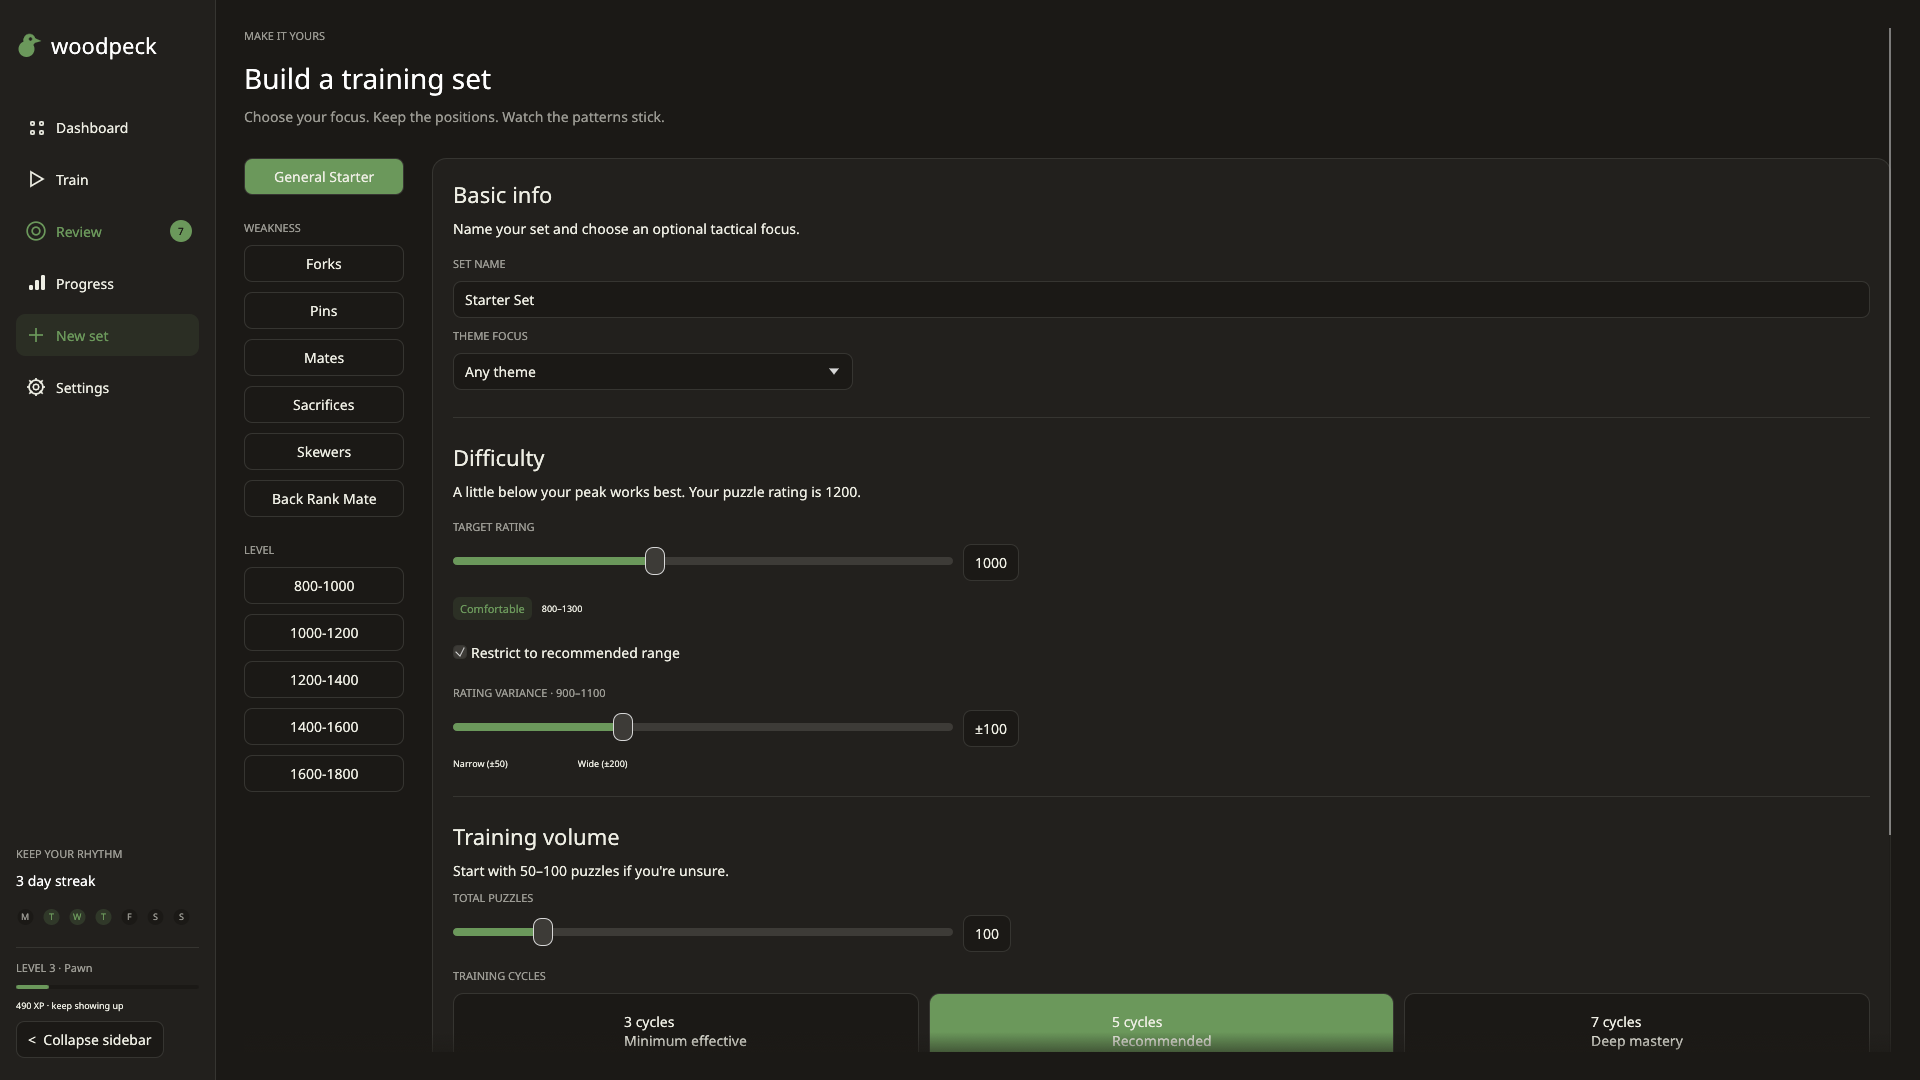
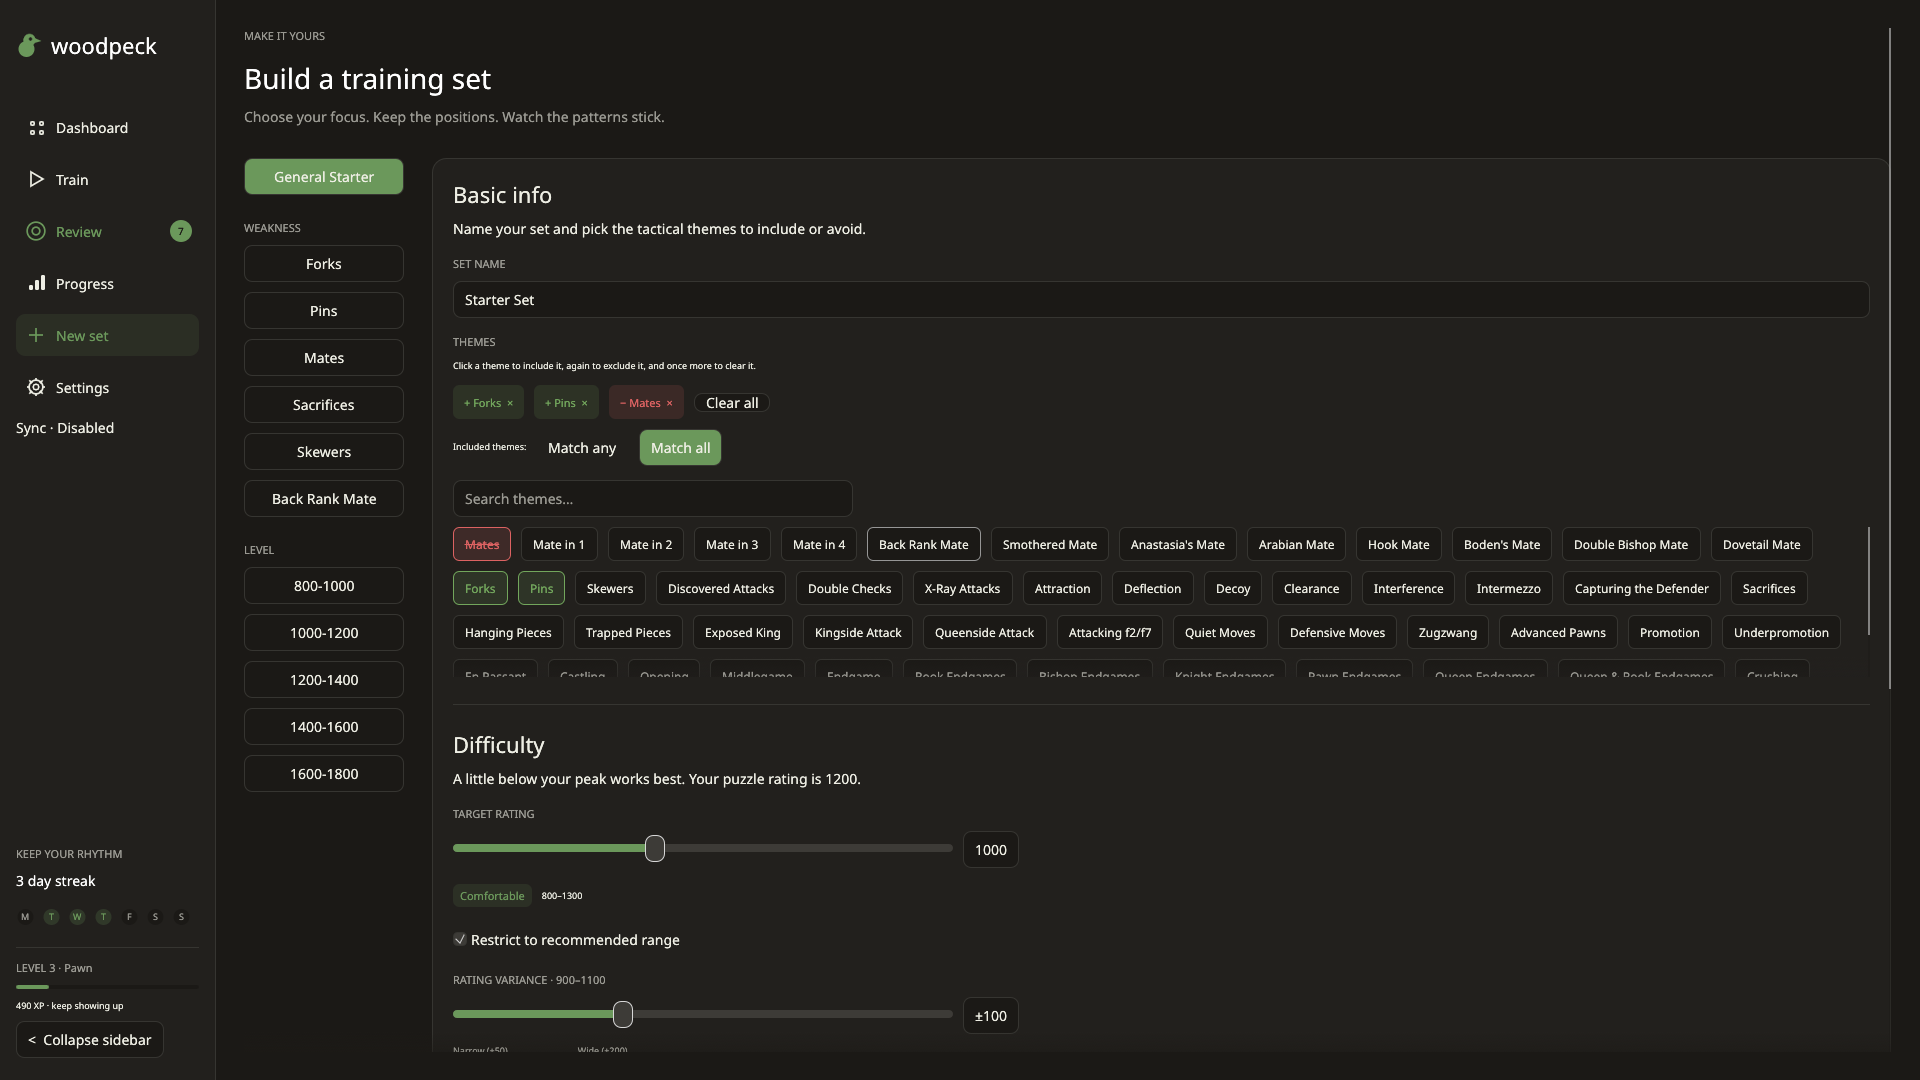
docs: document multi-theme include/exclude sets
Explains the theme picker, match any/all, exclusions, the Lichess fallback and sync format 2 compatibility, and refreshes the builder screenshot.

diff --git a/README.md b/README.md
@@ -5,7 +5,7 @@ A native **Woodpecker Method chess puzzle trainer**, inspired by [Peck Chess](ht
 ## Features
 
 - **A review queue that catches every miss.** Wrong answers and skips enter Review immediately, with a pending badge in navigation and a dashboard callout. Filter by theme or sort by recency and accuracy. Only a correct solve in Review clears an item; review attempts update lifetime accuracy without changing cycle results. The puzzle stays in its set for future cycles.
-- **Sets and presets.** General, tactical weakness, and rating presets; 20–500 positions; adjustable rating bands and 1–10 cycles. Fixed snapshots preserve your positions when the puzzle library changes. Optional seeded shuffling changes the order each cycle.
+- **Sets and presets.** General, tactical weakness, and rating presets; multi-theme filters that include and exclude Lichess themes; 20–500 positions; adjustable rating bands and 1–10 cycles. Fixed snapshots preserve your positions when the puzzle library changes. Optional seeded shuffling changes the order each cycle.
 - **Cycles and a count-up timer.** Resume across restarts, compare cycles, and step through the solution after a mistake. The timer pauses during animations, feedback, walkthroughs, promotion, and loss of focus. Optional completion sound and auto-advance.
 - **Progress.** Time and accuracy charts, comparisons with cycle one, performance by theme, and most-missed positions. Small local streak, XP, and rank widgets.
 - **Omarchy theme sync with live reload.** Desktop colors and fontconfig fonts, with two-second theme polling that follows directory and symlink swaps. Built-in dark and light themes and eight board palettes.
@@ -69,7 +69,17 @@ The default `sound` feature uses ALSA on Linux; playback happens in the backgrou
 
 ## Usage
 
-Start with **New set**, choose a preset or a tactical focus, then create a set. **Continue** resumes its current cycle. After a wrong move, walk through the missed line or advance; the item is already in **Review**. Use Review regularly and solve each queued puzzle correctly to clear it. **Progress** compares completed cycles. **Settings** controls themes, auto-advance, sound, tactical labels, imports, and PGN export.
+Start with **New set**, choose a preset, optionally adjust the themes, then create a set. **Continue** resumes its current cycle. After a wrong move, walk through the missed line or advance; the item is already in **Review**. Use Review regularly and solve each queued puzzle correctly to clear it. **Progress** compares completed cycles. **Settings** controls themes, auto-advance, sound, tactical labels, imports, and PGN export.
+
+### Choosing themes
+
+The builder's **Themes** picker lists Lichess puzzle themes; type in the search box to narrow it. Click a theme once to **include** it (green), again to **exclude** it (red, struck through), and a third time to clear it. Selected themes appear as chips above the search box; click a chip to remove it, or **Clear all**.
+
+- No included themes: any theme qualifies.
+- With two or more included themes, choose **Match any** (a puzzle needs at least one) or **Match all** (it needs every one).
+- Excluded themes always win: a puzzle with any excluded theme is never picked.
+
+Weakness presets start with their theme included, and you can add more from there. If the local library and the Lichess fallback can't fill the set, woodpeck creates nothing and tells you how many matching puzzles it found. It never saves a partial set. The fallback asks Lichess for one included theme at a time, rotating through them, and applies the full filter locally. Dashboard cards show each set's themes.
 
 | Key | Action |
 | --- | --- |
@@ -171,7 +181,7 @@ when a correct review solve is later than their latest miss. Keep system clocks
 accurate. Equal-time review conflicts remain pending. Git text conflicts need
 no manual editing. Sets are merged as a union: deleting a local set can restore
 it from remote history on the next sync. A newer remote format stops sync until
-you upgrade. Disabling leaves local progress and existing private Git history
+you upgrade; for example, multi-theme sets use format 2, which older releases refuse rather than misread. Current releases upgrade format 1 data automatically. Disabling leaves local progress and existing private Git history
 in place; it does not delete the remote repository.
 
 Local sync files live in `$XDG_DATA_HOME/woodpeck/sync/` (or the platform data
